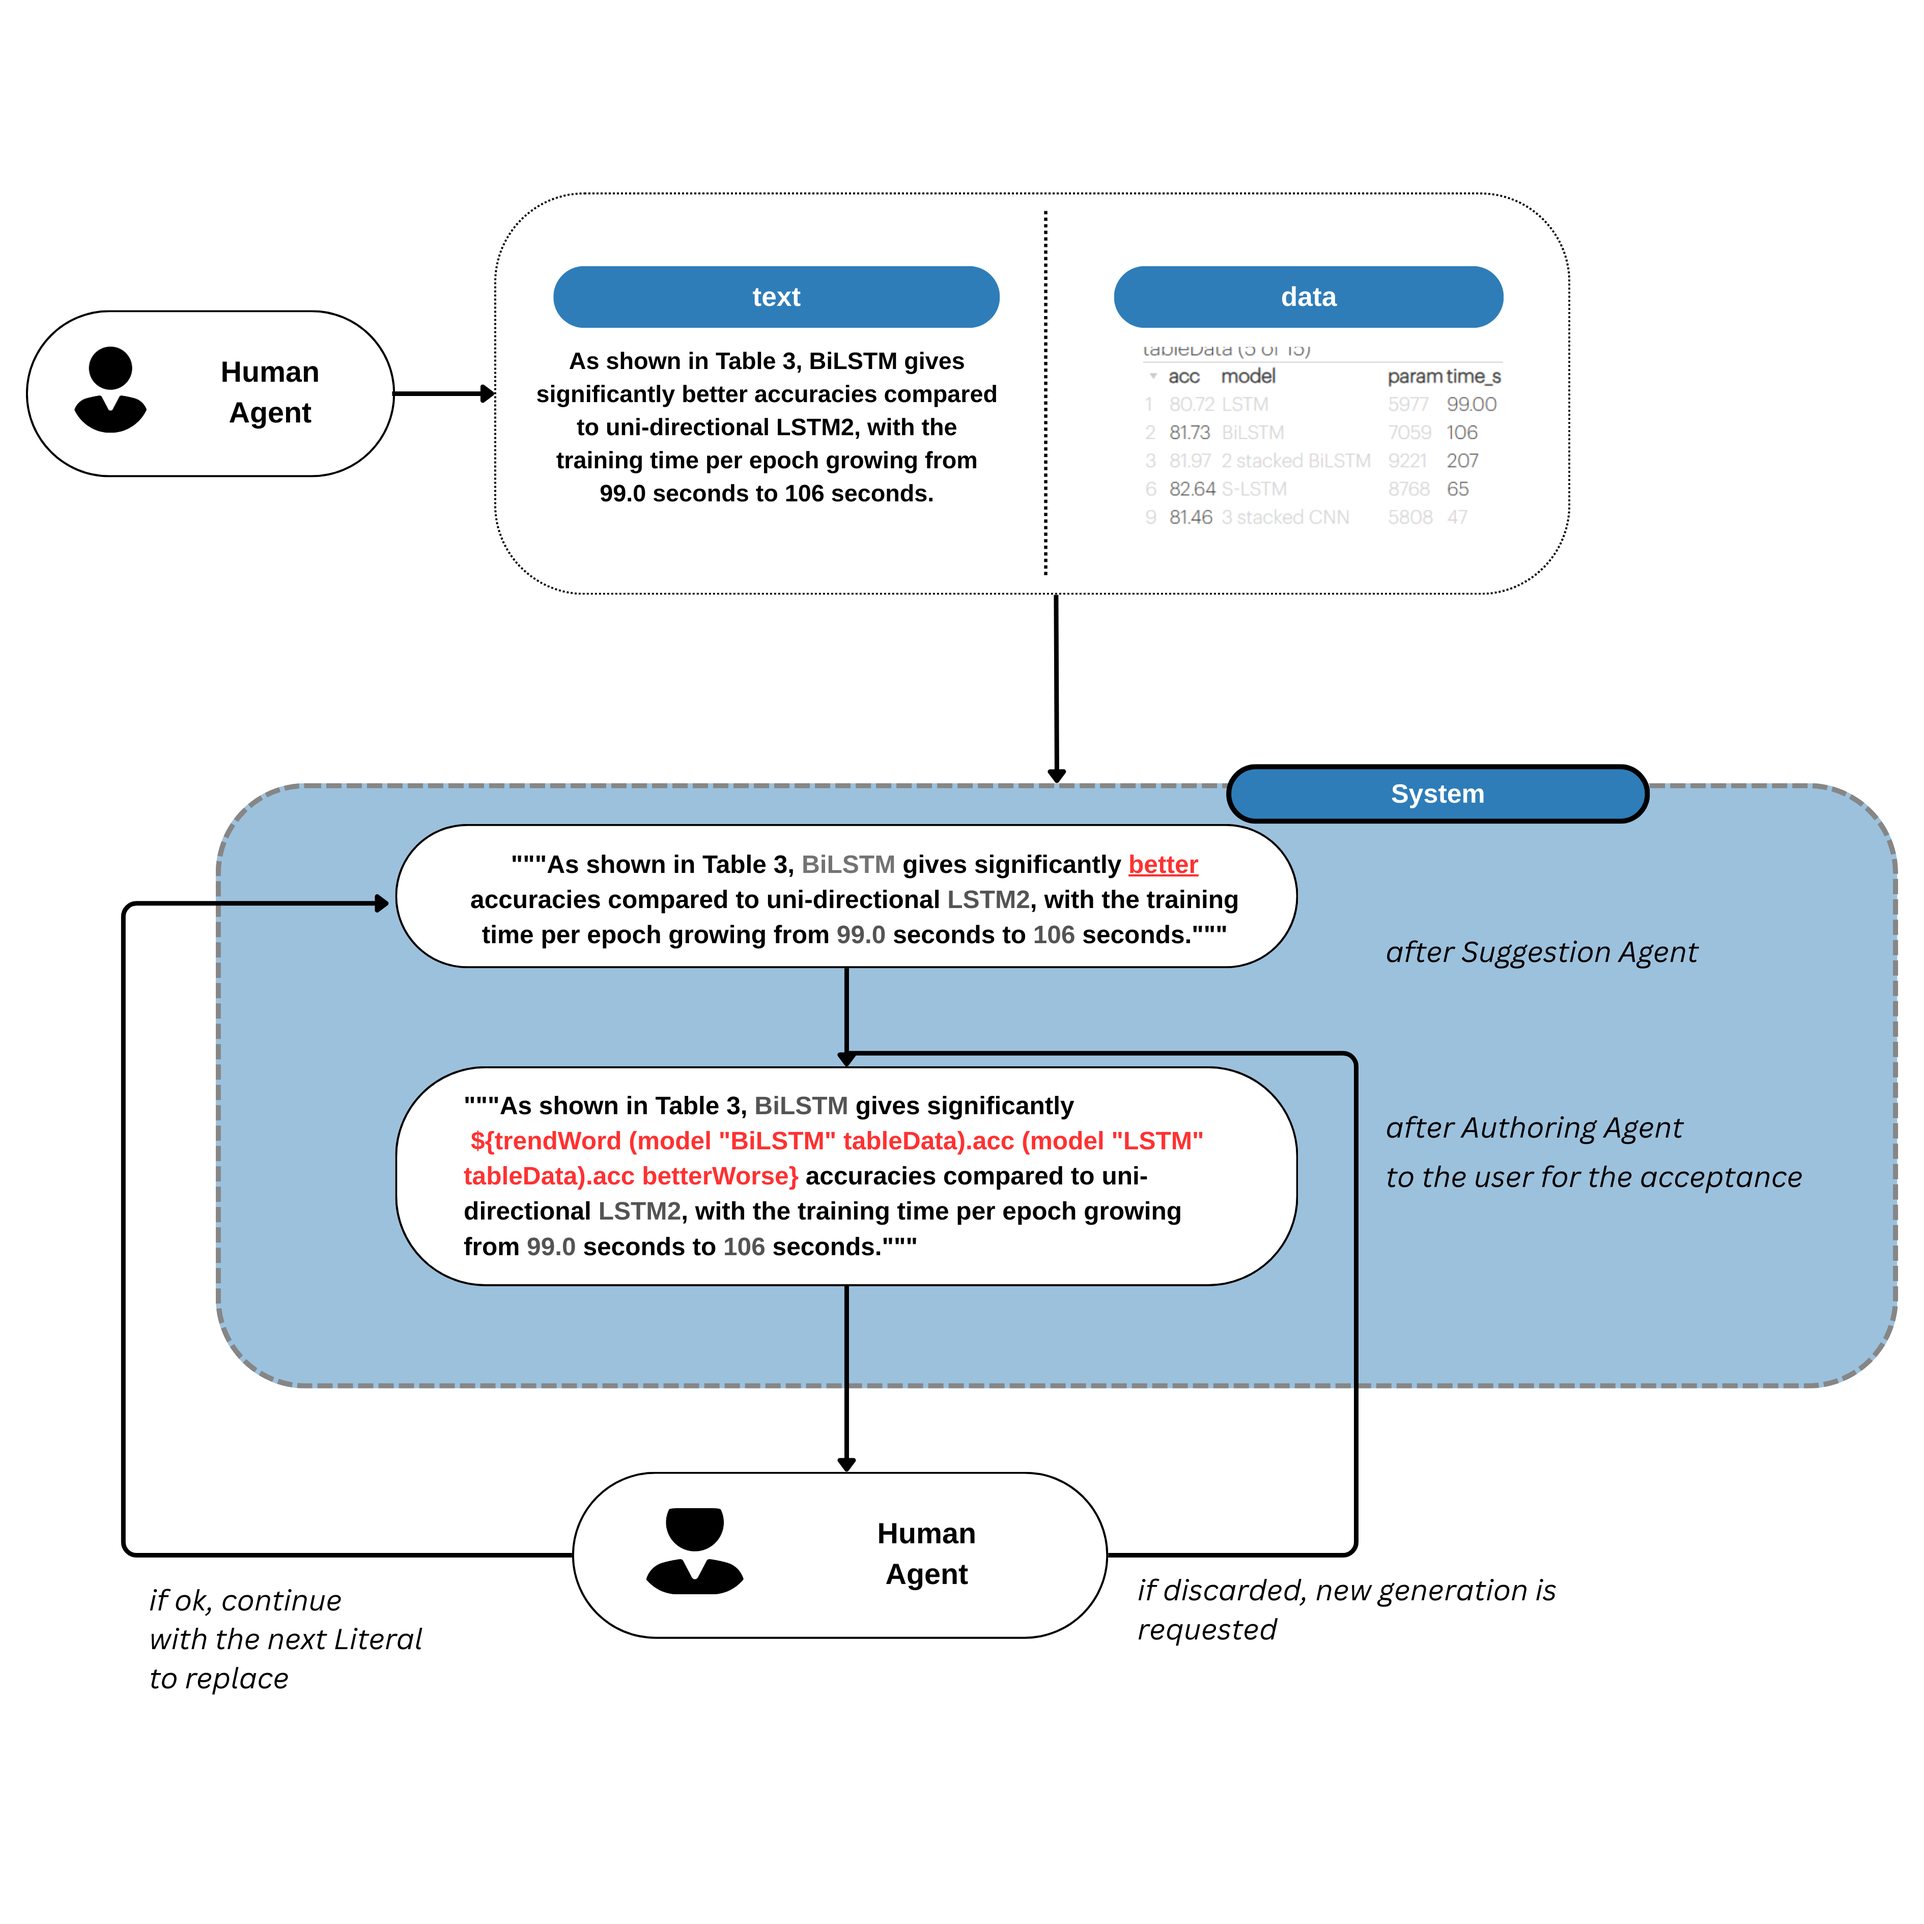
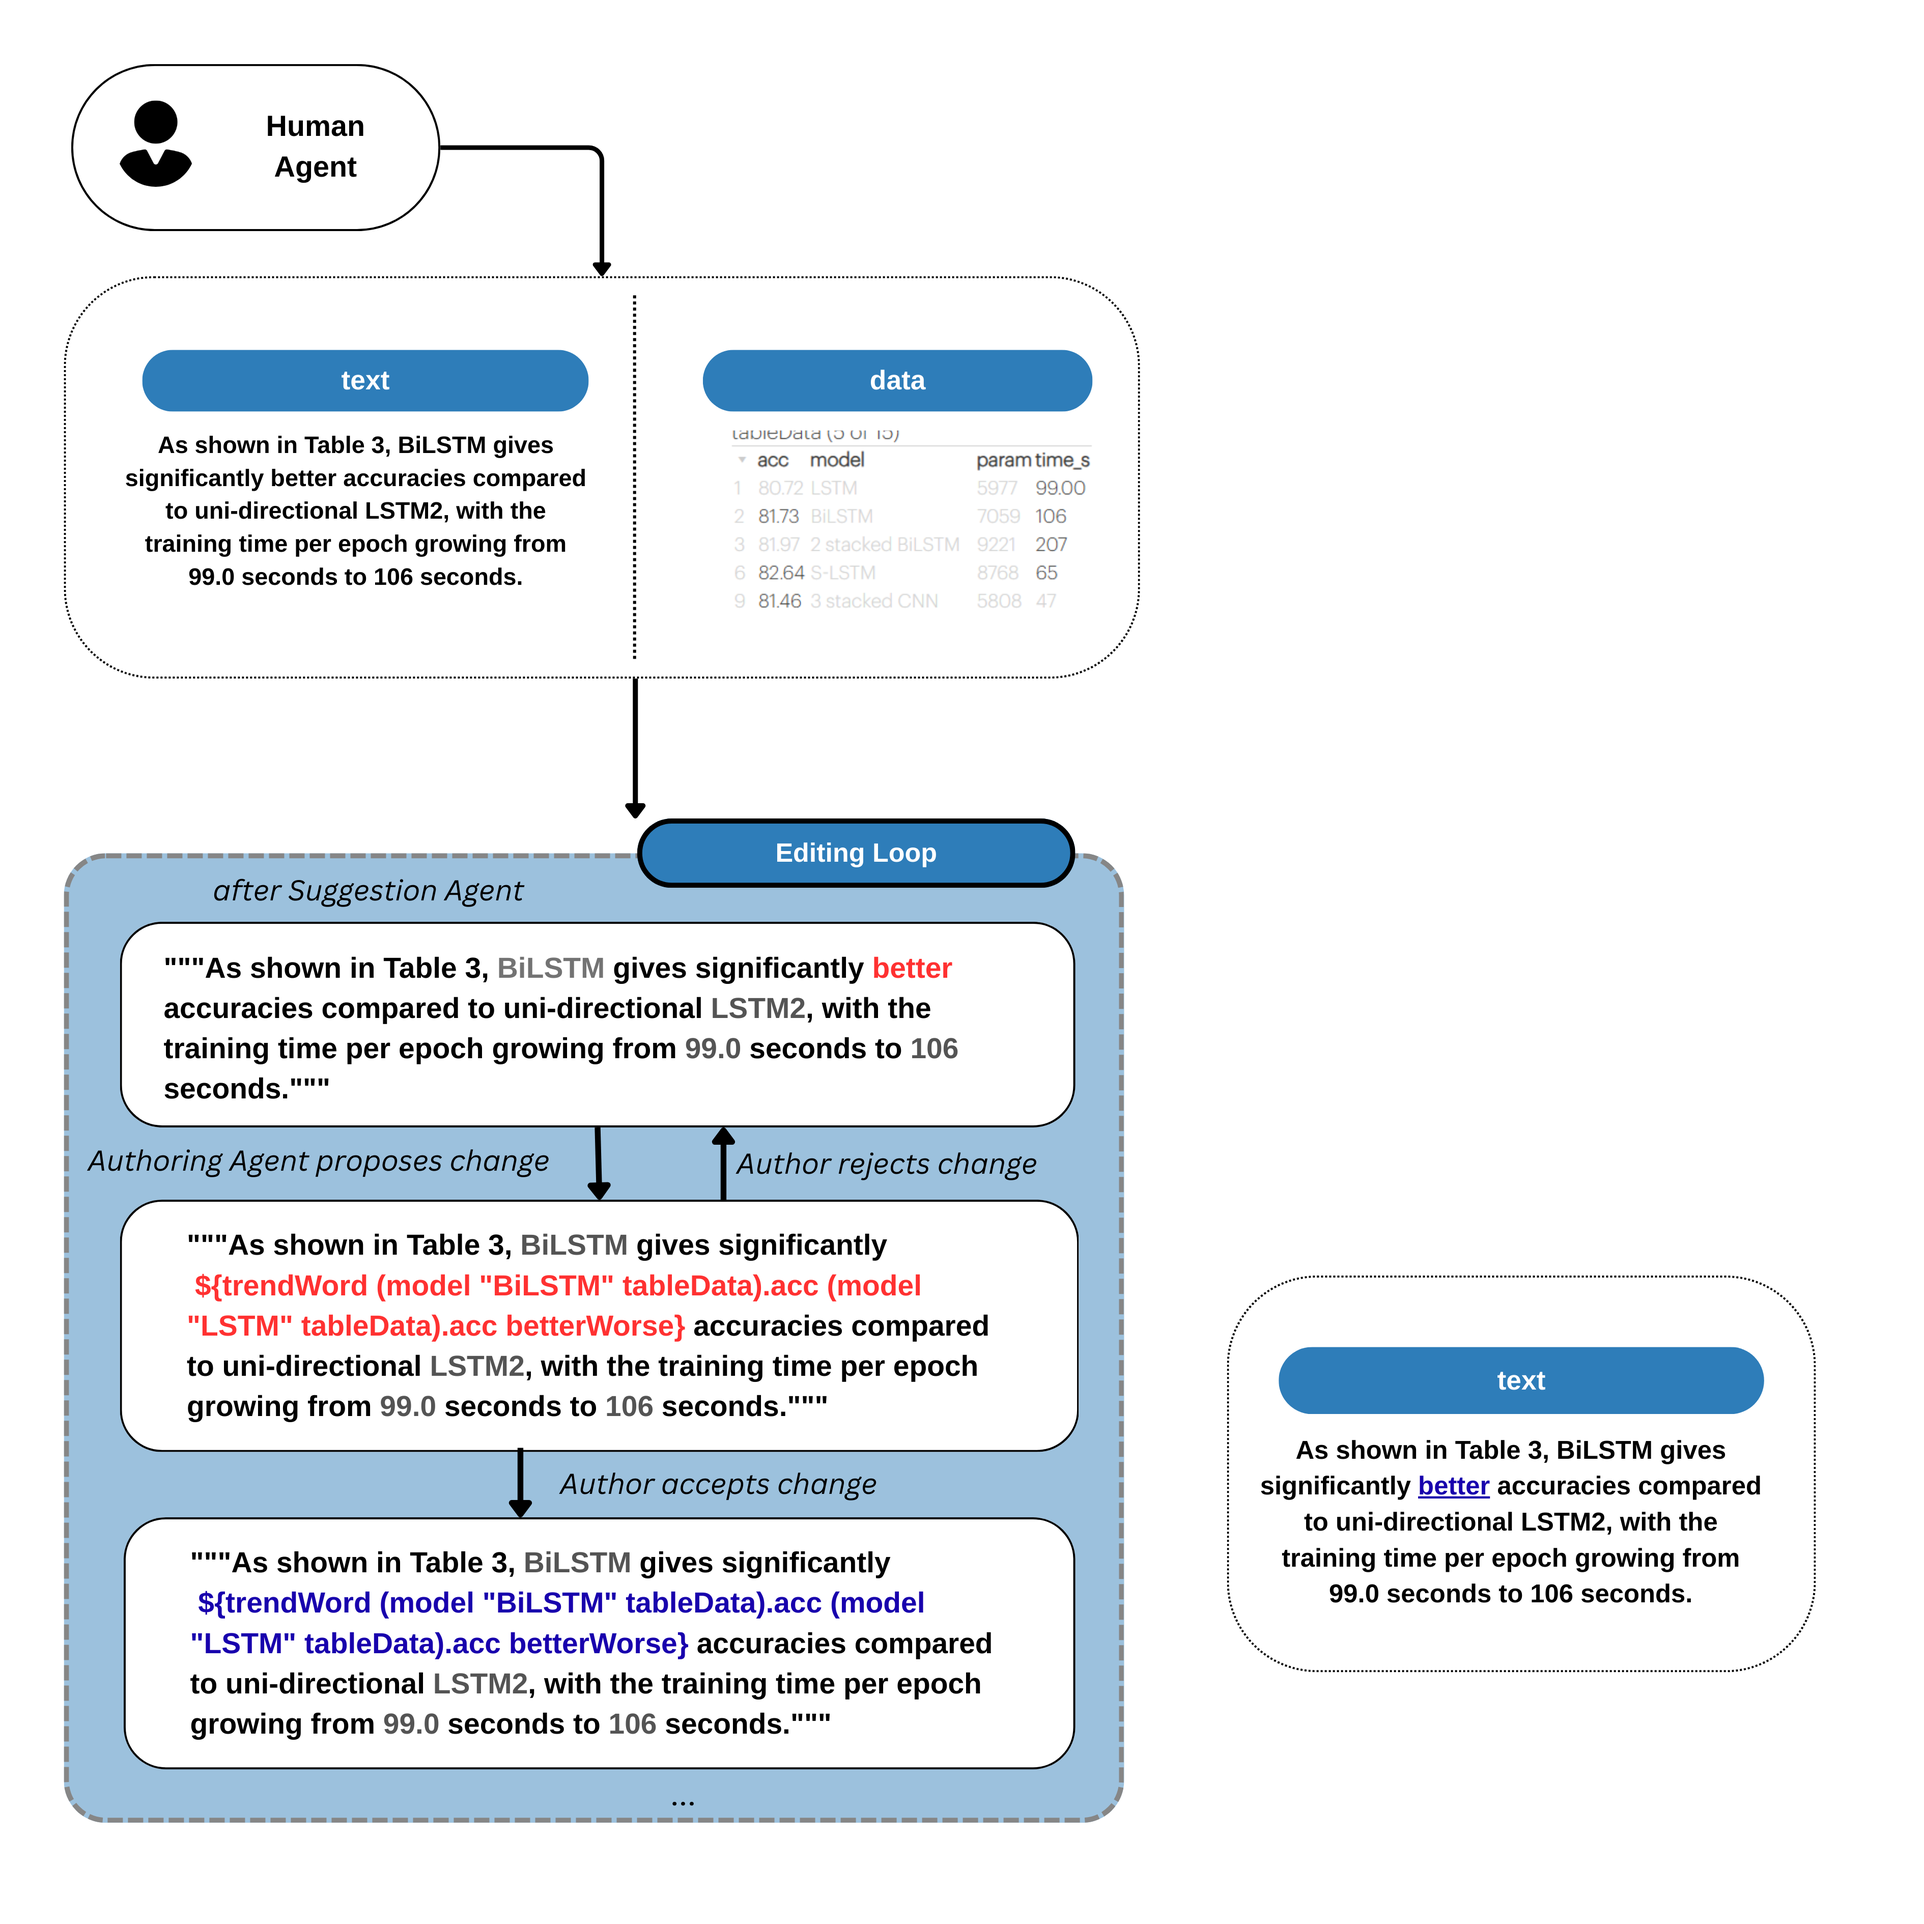
description of the workflow and update flow image

diff --git a/paper/sec/authoring-workflow.tex b/paper/sec/authoring-workflow.tex
@@ -1,6 +1,21 @@
 \section{AI-Assisted Authoring Workflow}
 \label{sec:authoring-workflow}
 
+Figure~\ref{fig:overall-architecture} shows the system architecture and an example flow.
+The system is composed of two agents:
+
+\begin{itemize}
+    \item \textbf{SuggestionAgent}. Based on an LLM, the SuggestionAgent receives as input the initial text and the reference data, and returns the elements in the text that can be replaced with expressions in the Fluid language.
+    \item \textbf{InterpretationAgent}. Also based on an LLM, the InterpretationAgent receives as input a selection (either obtained from the SuggestionAgent or manually defined by the author) and generates an interpretation of the text as a Fluid expression.
+\end{itemize}
+
+Figure~\ref{fig:architecture} shows the overall architecture of the system.
+The author initially provides the text and accompanying data.
+The SuggestionAgent analyses the input and identifies candidate fragments of natural language which could be replaced by Fluid expressions.
+The user highlightes a fragment of interest, which is then sent to the InterpretationAgent, which generates a corresponding candidate expression.
+Internally the InterpretationAgent uses a compiler-in-the-loop validation process to ensure the expression is well-formed.
+The user is then able to accept the expression (in which case it is incorporated into the program) or reject and leave the text uninterpreted.
+
 \begin{figure}[ht]
     \centering
     \begin{subfigure}{0.48\linewidth}
@@ -16,7 +31,7 @@
         \label{fig:dataflow}
     \end{subfigure}
     \caption{AI-assisted authoring process: workflow (a) and data flow (b).}
-    \label{fig:overall}
+    \label{fig:overall-architecture}
 \end{figure}
 
 
